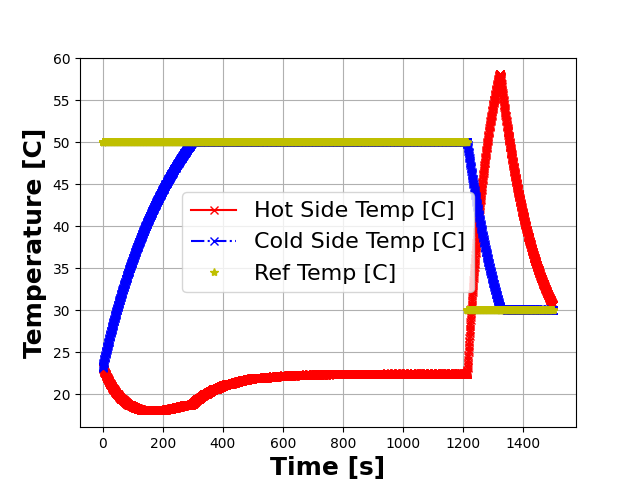
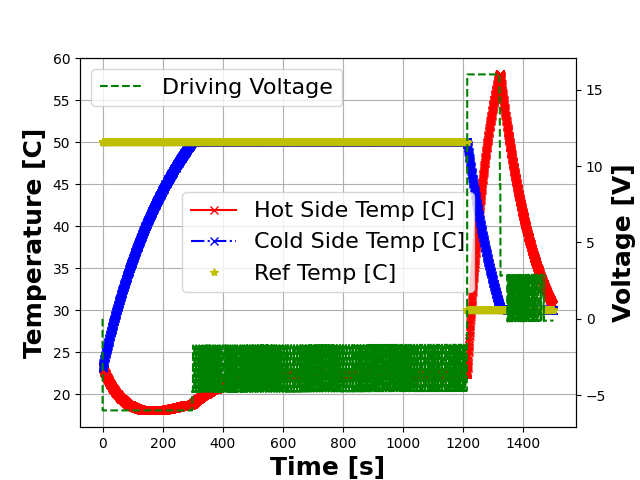
Update PID figures with driver signal

diff --git a/tests/pid_cold.py b/tests/pid_cold.py
@@ -17,7 +17,7 @@ if __name__ == "__main__":
     pidc = OpenPelt.pid_controller(cbs, -30.00, -0.0007, -0.10, plate_select=plate_select)
     pC.set_controller_f(pidc.controller_f)
     pC.run_sim()
-    pC.plot_th_tc(OpenPelt.IndVar.TIME, plot_driver = False, include_ref = True)
+    pC.plot_th_tc(OpenPelt.IndVar.TIME, plot_driver = True, include_ref = True)
     plt.savefig('./figs/{}'.format(TEST_NAME))
     data = numpy.array([pC.get_t(), pC.get_th_sensor()])
     numpy.save('./results/{}_time_th_sensor_curr'.format(TEST_NAME), data)

diff --git a/tests/pid_hot.py b/tests/pid_hot.py
@@ -17,7 +17,7 @@ if __name__ == "__main__":
     pidc = OpenPelt.pid_controller(cbs, 15.00, 0.00, 0.00, plate_select=plate_select)
     pC.set_controller_f(pidc.controller_f)
     pC.run_sim()
-    pC.plot_th_tc(OpenPelt.IndVar.TIME, plot_driver = False, include_ref = True)
+    pC.plot_th_tc(OpenPelt.IndVar.TIME, plot_driver = True, include_ref = True)
     plt.savefig('./figs/{}'.format(TEST_NAME))
     data = numpy.array([pC.get_t(), pC.get_th_sensor()])
     numpy.save('./results/{}_time_th_sensor_curr'.format(TEST_NAME), data)
